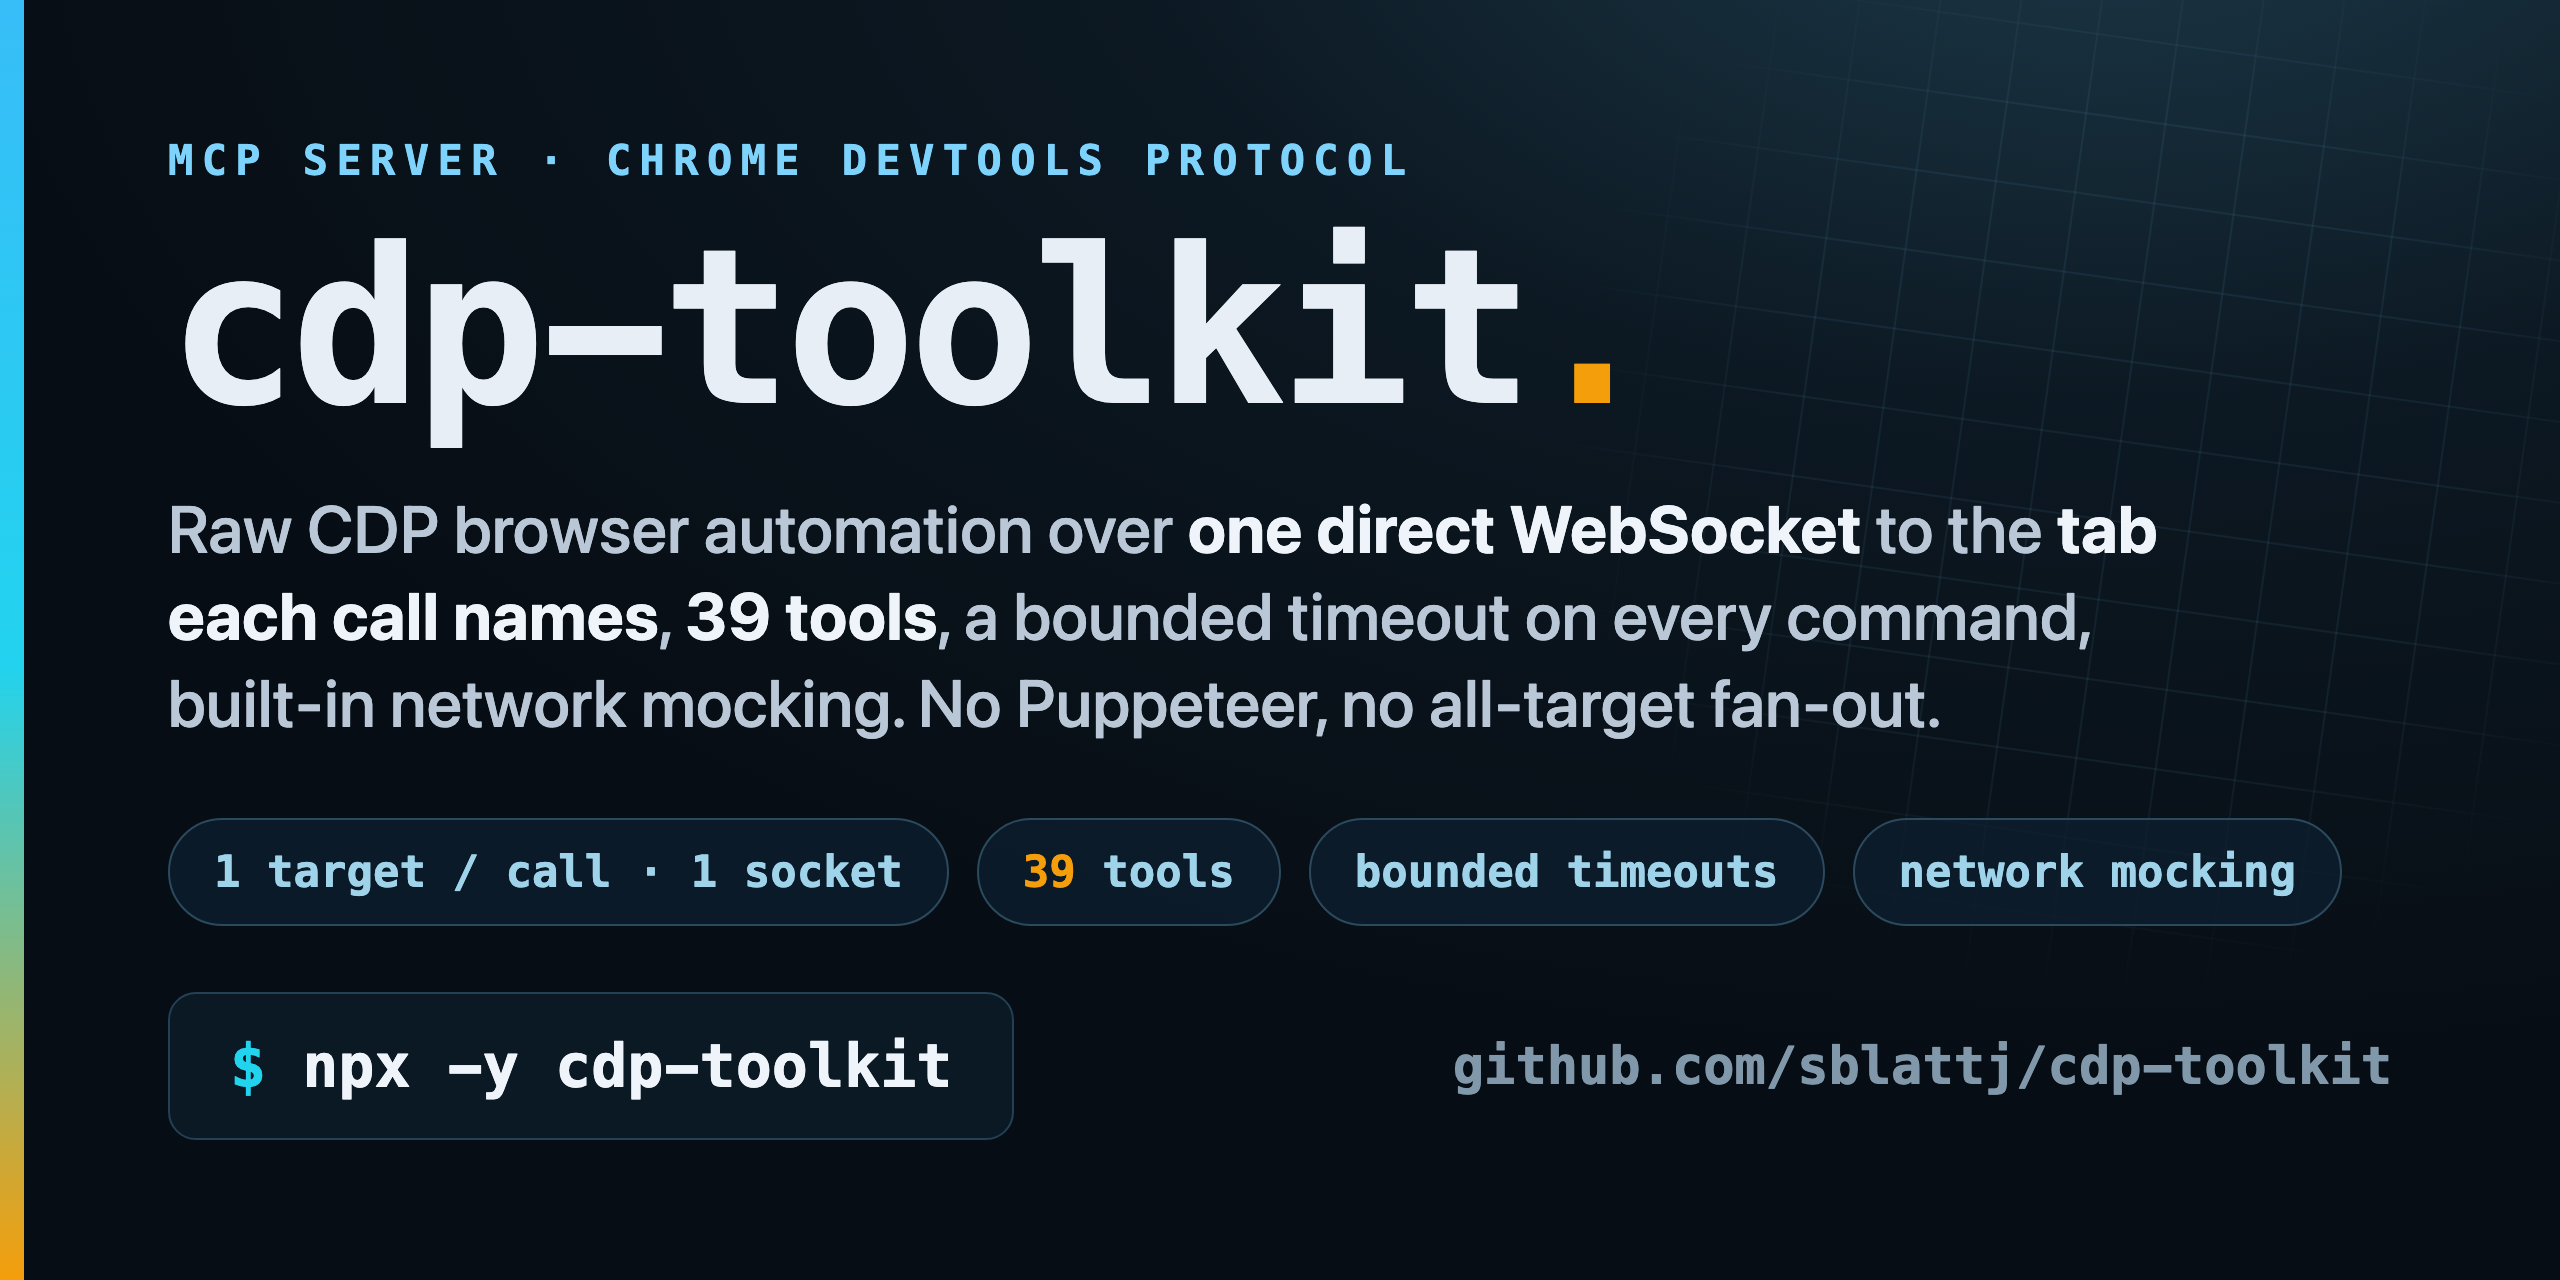
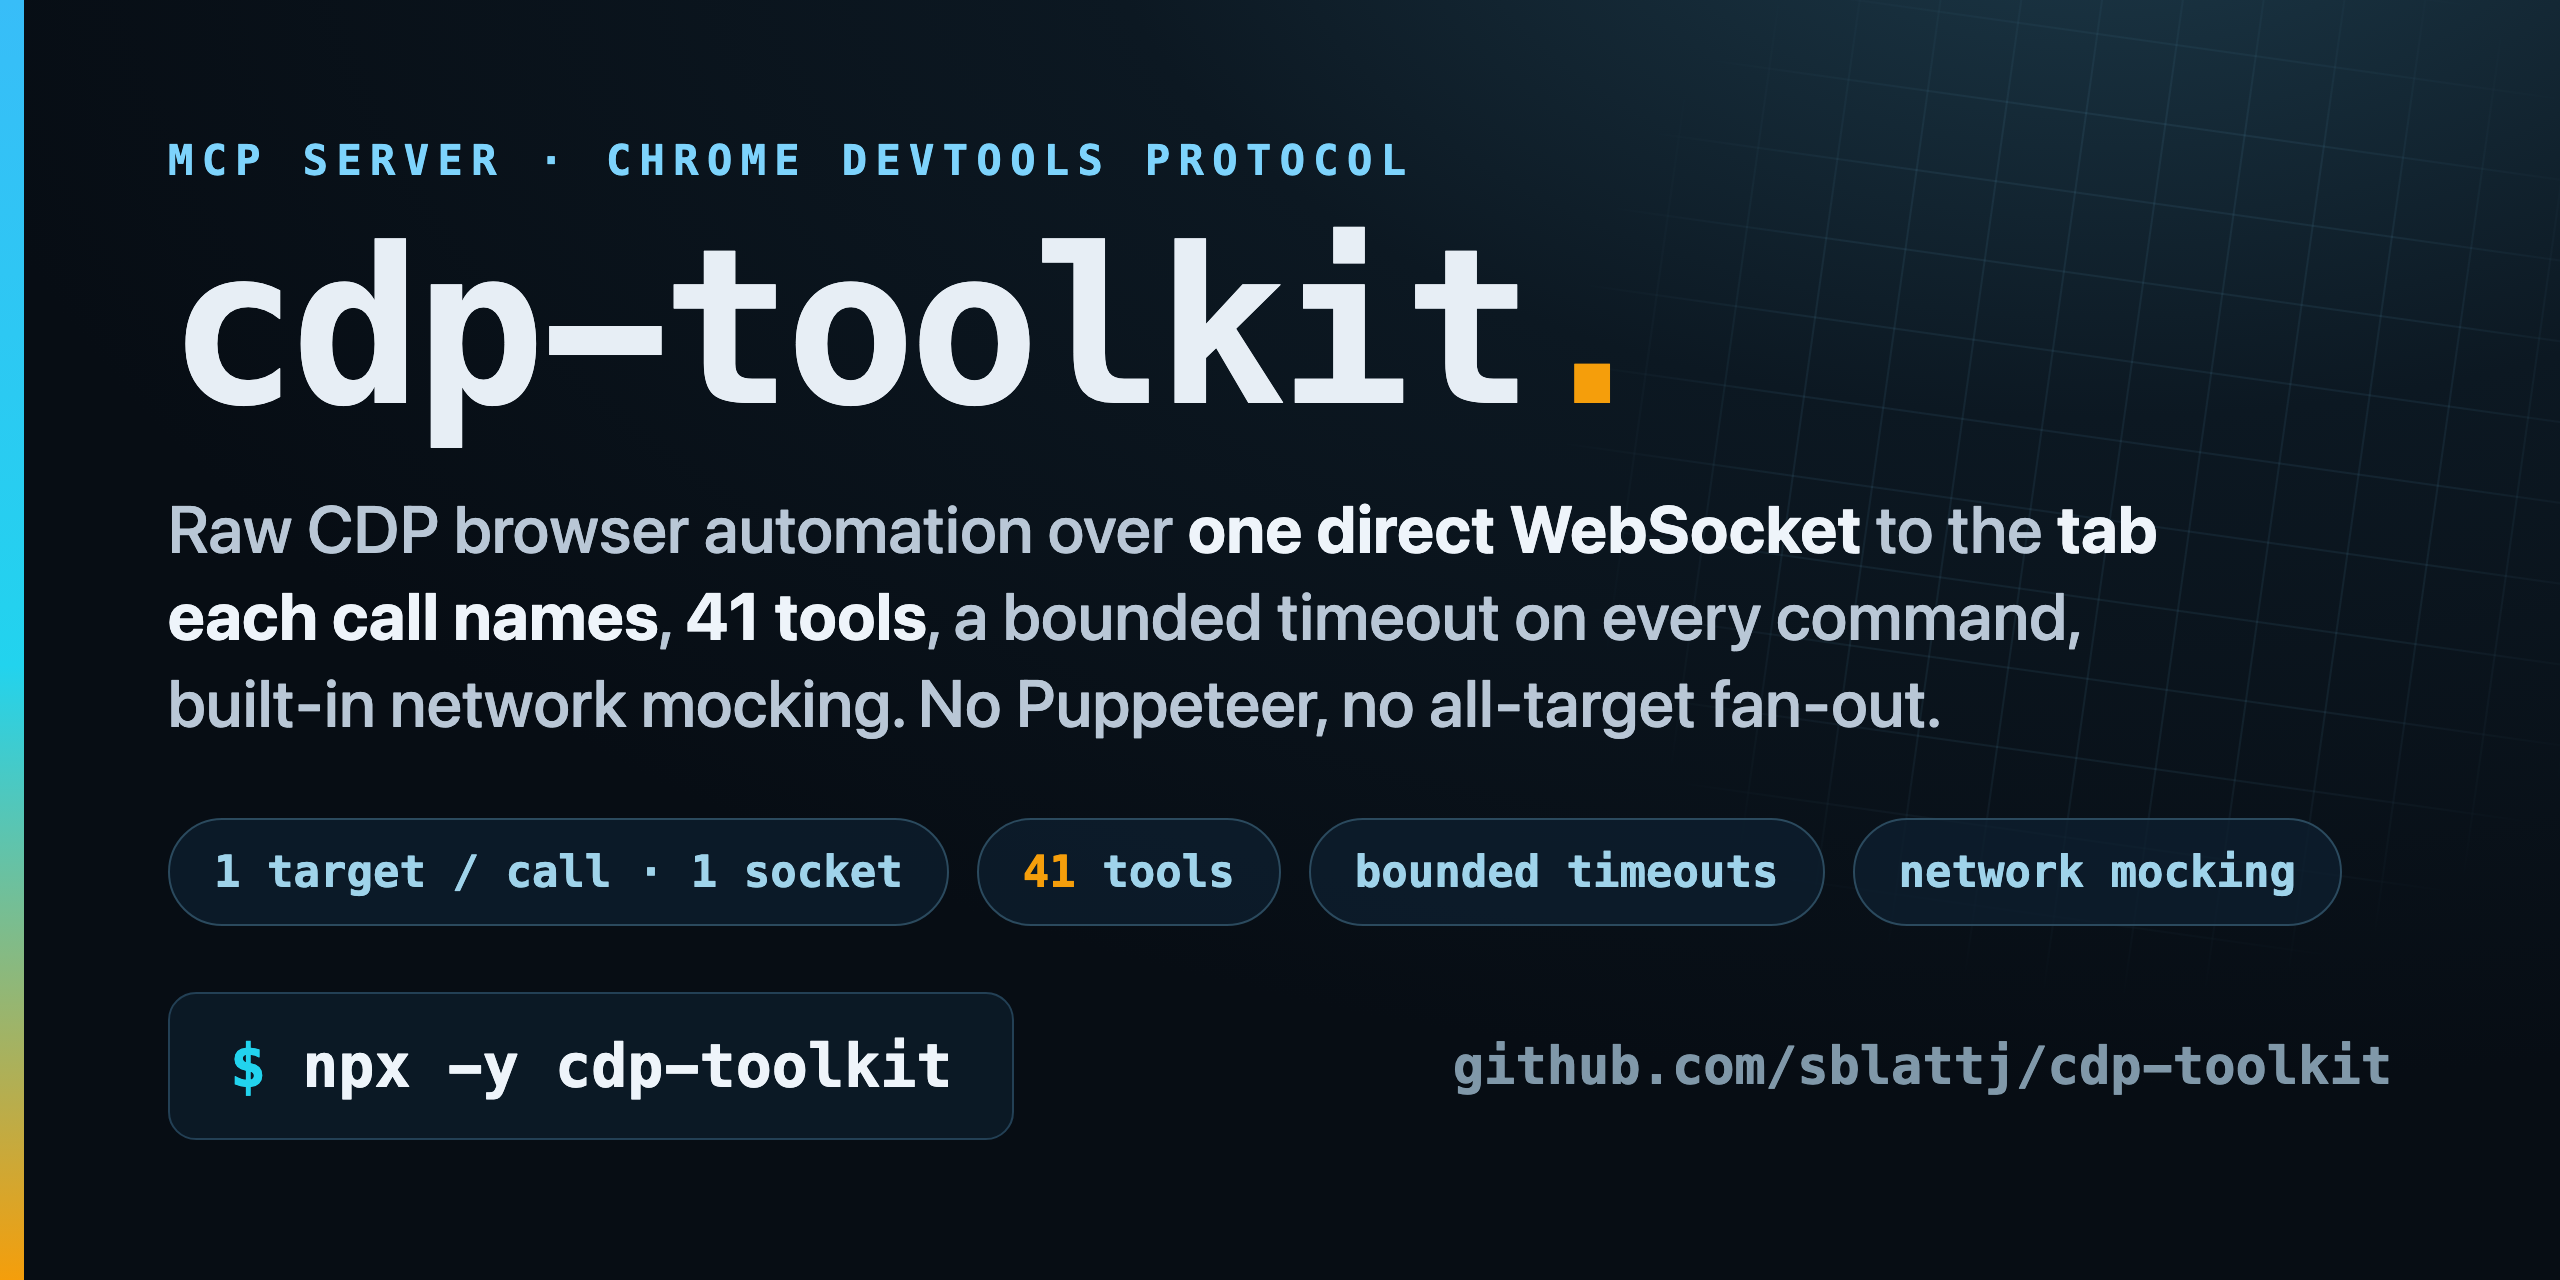
docs: re-render social-preview.png at 41 tools
The card's source was updated to 41 (tagline + chip badge) in the release
sweep; the rendered PNG still had 39 baked into its pixels. Re-rendered from
the updated HTML at 1280x640 @2x (2560x1280), matching the prior asset's
format (git show 5e54bf9 for provenance), via a one-shot isolated headless
Chrome (--headless=new --force-device-scale-factor=2 --screenshot=...) on a
throwaway --user-data-dir. Never touched the live browser on 9222. Pixel-
verified by reading the PNG back: "41 tools" appears in both the tagline and
the chip badge, layout otherwise unchanged.

Claude-Session-Id: e5892654-bdd8-4e56-9df9-880fe54d044f

— Sonnet 5 via Claude Code

Changed region(s): [[0.25, 0.4688, 0.8125, 0.5], [0.4062, 0.6562, 0.4375, 0.6875]]

diff --git a/docs/social-preview.html b/docs/social-preview.html
@@ -72,12 +72,12 @@
     <div class="title">cdp-toolkit<span class="dot">.</span></div>
     <div class="tagline">
       Raw CDP browser automation over <b>one direct WebSocket</b> to the
-      <b>tab each call names</b>, <b>39 tools</b>, a bounded timeout on every command,
+      <b>tab each call names</b>, <b>41 tools</b>, a bounded timeout on every command,
       built-in network mocking. No Puppeteer, no all-target fan-out.
     </div>
     <div class="chips">
       <div class="chip">1 target / call &middot; 1 socket</div>
-      <div class="chip"><span class="n">39</span> tools</div>
+      <div class="chip"><span class="n">41</span> tools</div>
       <div class="chip">bounded timeouts</div>
       <div class="chip">network mocking</div>
     </div>
